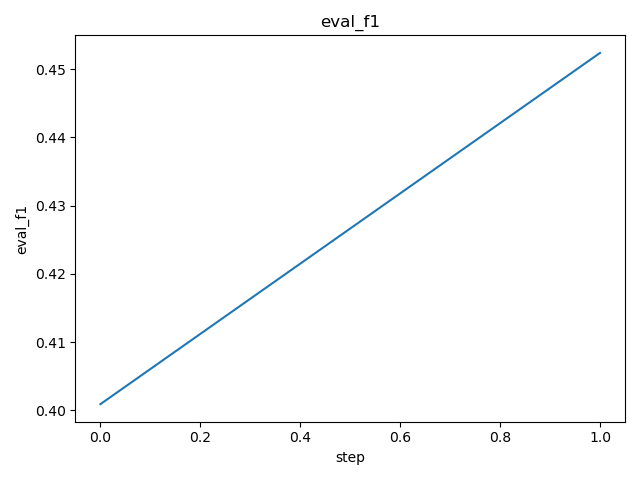
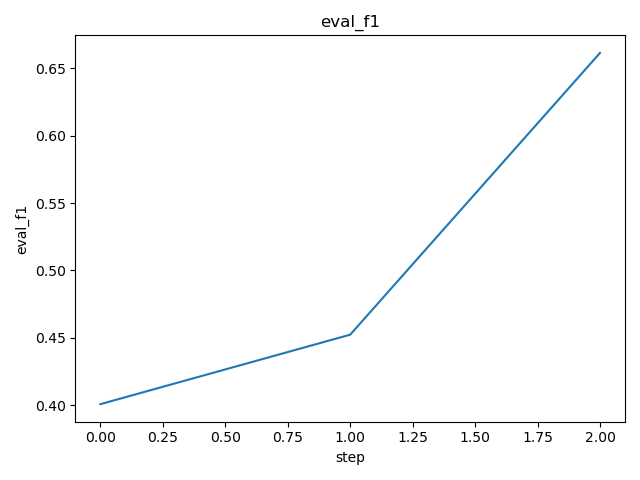
dvc: commit experiment e4e581d9619f969cbde9896d2b5177f286265b453c91fc89135be1a3709f1234

diff --git a/data/ogt_protein_classifier/dvclive/report.md b/data/ogt_protein_classifier/dvclive/report.md
@@ -4,7 +4,7 @@ metrics.json
 
 |   loss |   learning_rate |   epoch |   eval_loss |   eval_f1 |   eval_accuracy |   eval_matthew |   eval_runtime |   eval_samples_per_second |   eval_steps_per_second |   step |
 |--------|-----------------|---------|-------------|-----------|-----------------|----------------|----------------|---------------------------|-------------------------|--------|
-| 0.6926 |     4.58333e-05 |     0.2 |     0.69139 |  0.452399 |        0.593839 |       0.184673 |        74.9761 |                   429.523 |                   2.241 |      1 |
+| 0.6935 |     4.33333e-05 |     0.3 |    0.689075 |  0.661304 |        0.593405 |       0.236571 |        75.5342 |                    426.35 |                   2.224 |      2 |
 
 ![static/eval_steps_per_second](static/eval_steps_per_second.png)
 
